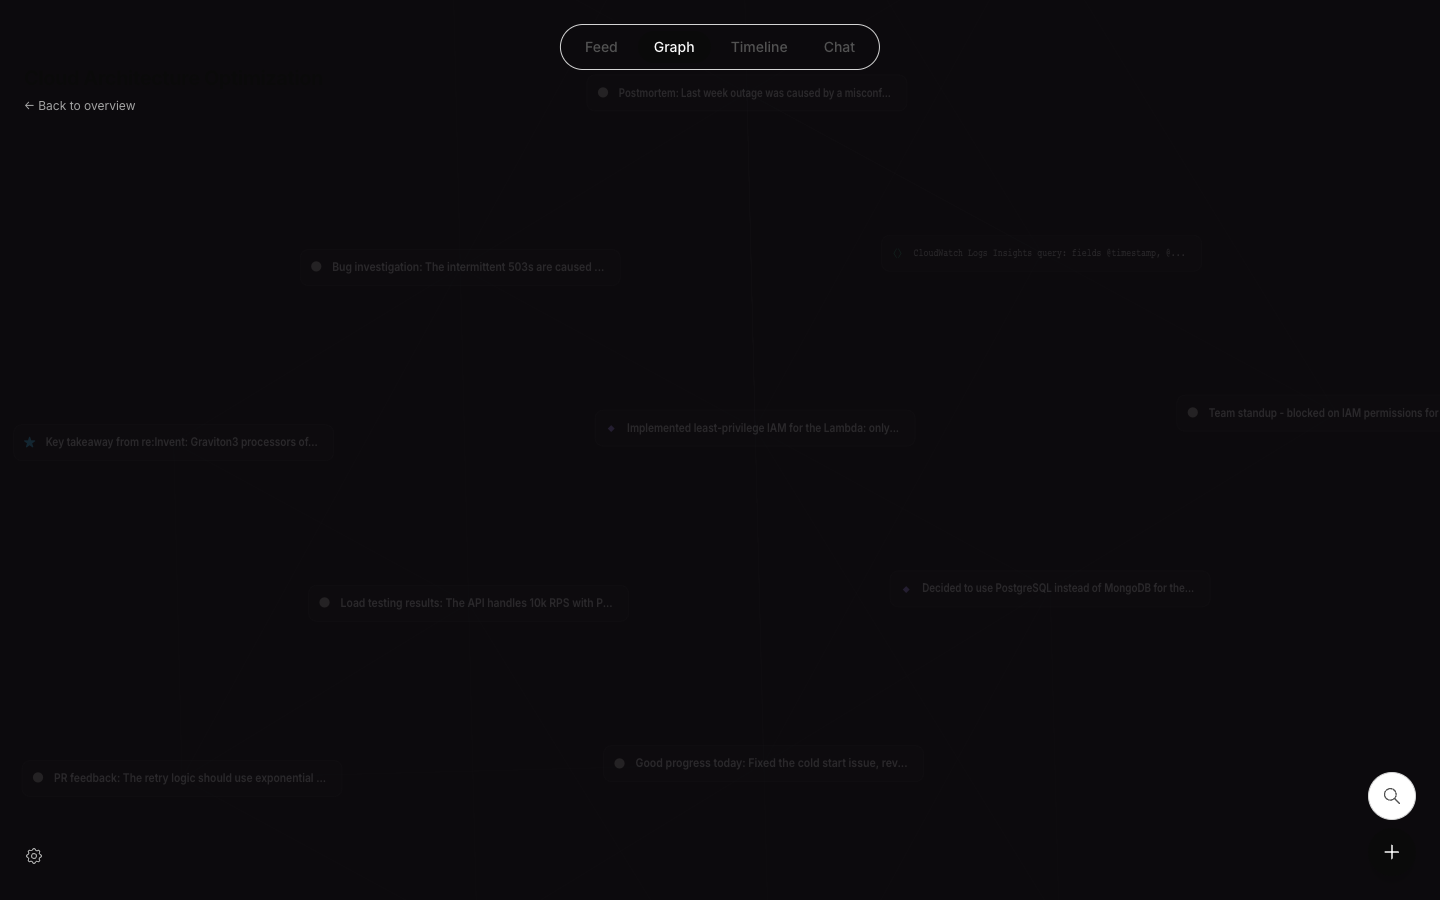
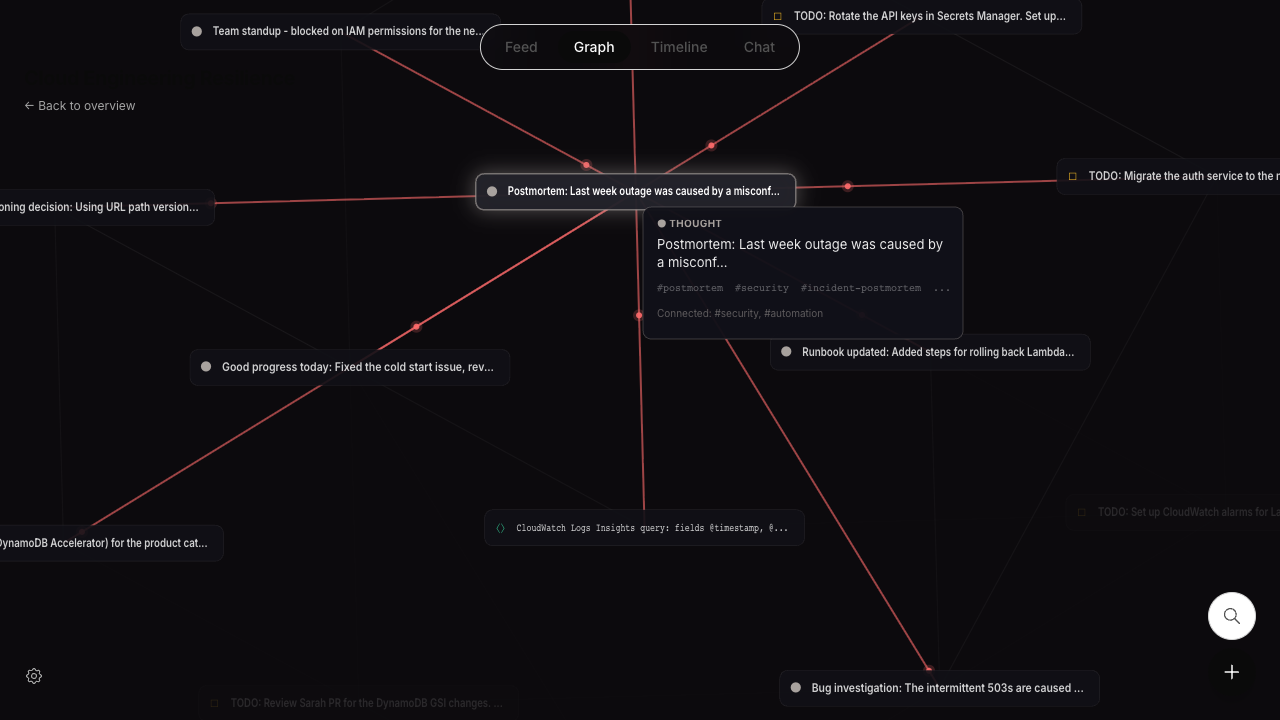
Better constellation screenshot, LICENSE file, trim README
- Constellation screenshot: hover state active showing lit edges, animated
  orbs, tooltip with full text + tags + connection reason, dimmed nodes
- Added MIT LICENSE file (2026)
- Removed Project Structure section from README (unnecessary clutter)
- License section now links to LICENSE file instead of inline

diff --git a/README.md b/README.md
@@ -277,55 +277,6 @@ Open http://localhost:5173
 
 ---
 
-## Project Structure
-
-```
-ragbrain/
-├── apps/
-│   └── web/                        # Vue 3 frontend
-│       ├── src/
-│       │   ├── api/                # API client with legacy fallback
-│       │   ├── components/
-│       │   │   └── views/
-│       │   │       ├── graph/      # Knowledge Galaxy (Canvas 2D + D3)
-│       │   │       │   ├── CanvasRenderer.ts
-│       │   │       │   ├── ThoughtDrawer.vue
-│       │   │       │   └── useGraphNavigation.ts
-│       │   │       ├── FeedView.vue
-│       │   │       ├── GraphView.vue
-│       │   │       ├── TimelineView.vue
-│       │   │       └── ChatView.vue
-│       │   ├── composables/        # Vue composables
-│       │   ├── types/              # Re-exports from @ragbrain/shared
-│       │   └── lib/                # Utilities
-│       └── index.html
-├── packages/
-│   ├── infra/                      # AWS CDK infrastructure
-│   │   ├── lib/
-│   │   │   ├── stacks/            # 5 CDK stacks
-│   │   │   └── shared/            # Shared backend library
-│   │   │       ├── search.ts      # Hybrid search, scoring, embeddings
-│   │   │       ├── metrics.ts     # CloudWatch metrics helper
-│   │   │       ├── responses.ts   # Standardized API responses
-│   │   │       ├── clients.ts     # AWS client factories
-│   │   │       └── config.ts      # Model IDs, search weights
-│   │   └── functions/             # Lambda handlers
-│   │       ├── capture/           # Thought capture + S3 + SQS
-│   │       ├── ask/               # Hybrid search + Claude answers
-│   │       ├── graph/             # K-means + LOD tiling + LLM labels
-│   │       ├── indexer/           # Embeddings + smart tags + OpenSearch
-│   │       ├── conversations/     # Encrypted multi-turn chat
-│   │       ├── thoughts/          # CRUD + filtering
-│   │       ├── search/            # BM25 text search
-│   │       ├── authorizer/        # API key + rate limiting
-│   │       └── export/            # Obsidian sync export
-│   ├── shared/                    # Shared TypeScript types + utils
-│   └── tests/                     # API, security, performance tests
-└── design/                        # Technical design docs
-```
-
----
-
 ## Tech Stack
 
 | Layer | Technology |
@@ -376,7 +327,7 @@ All endpoints require `x-api-key` header.
 
 ## License
 
-MIT (c) Bobby Rathore
+[MIT](LICENSE)
 
 ---
 
